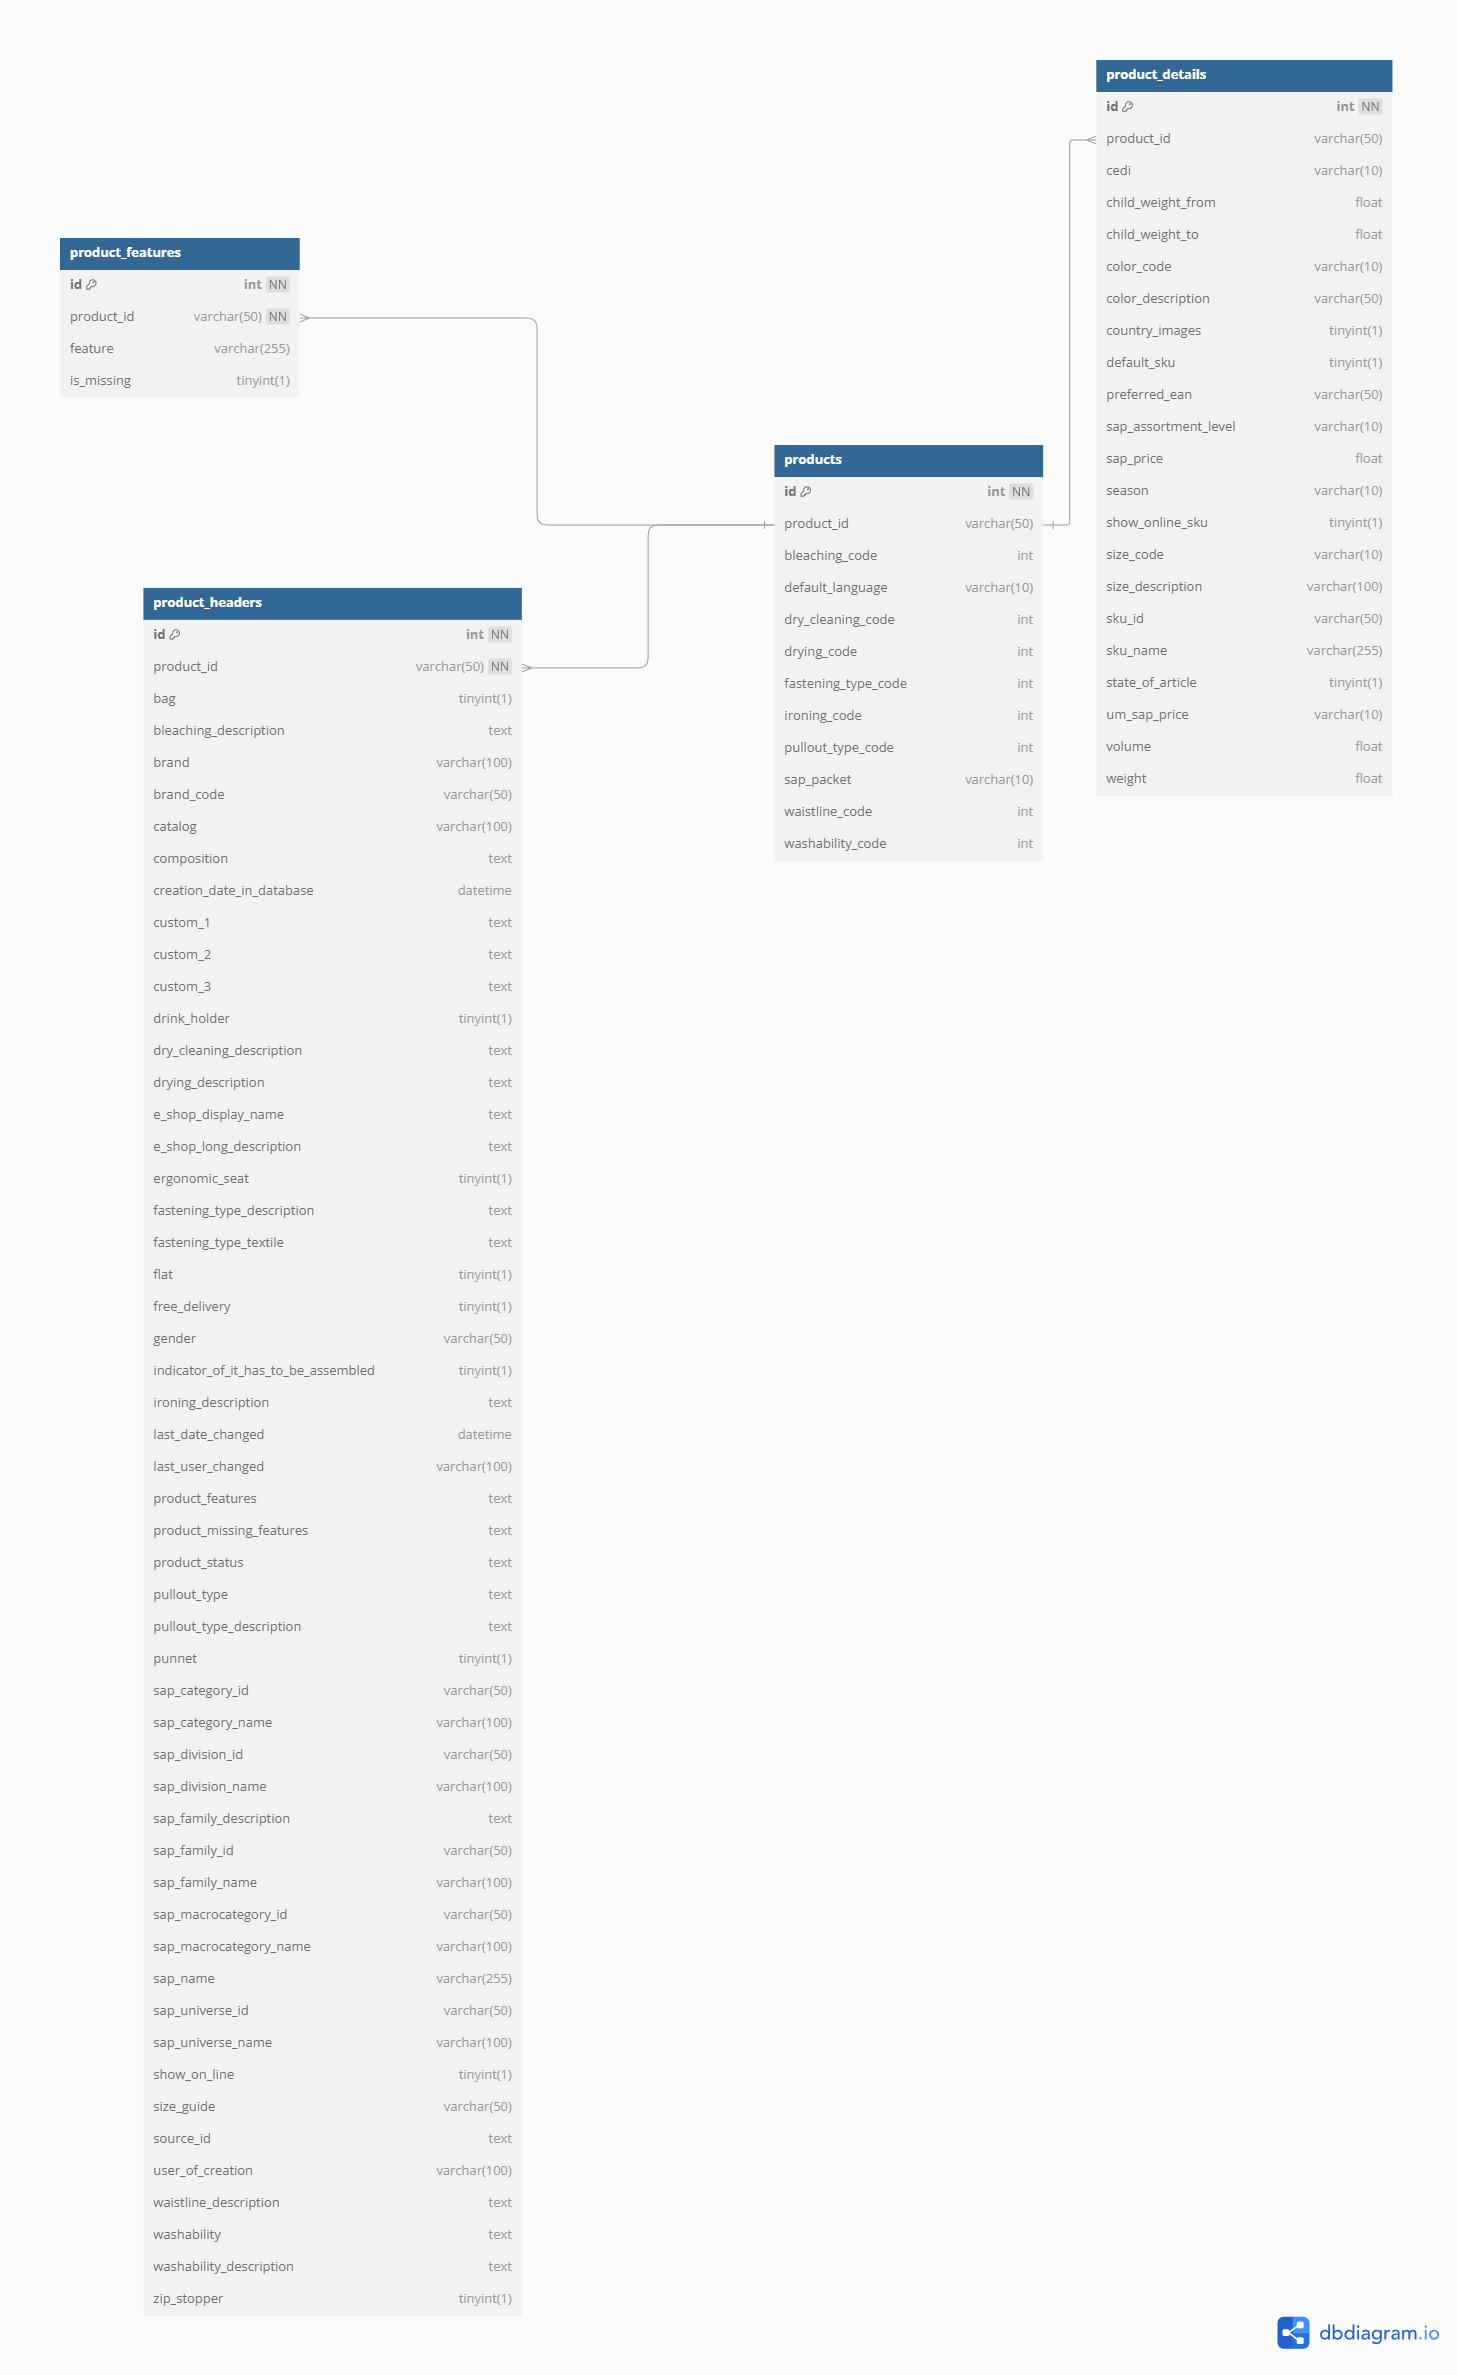
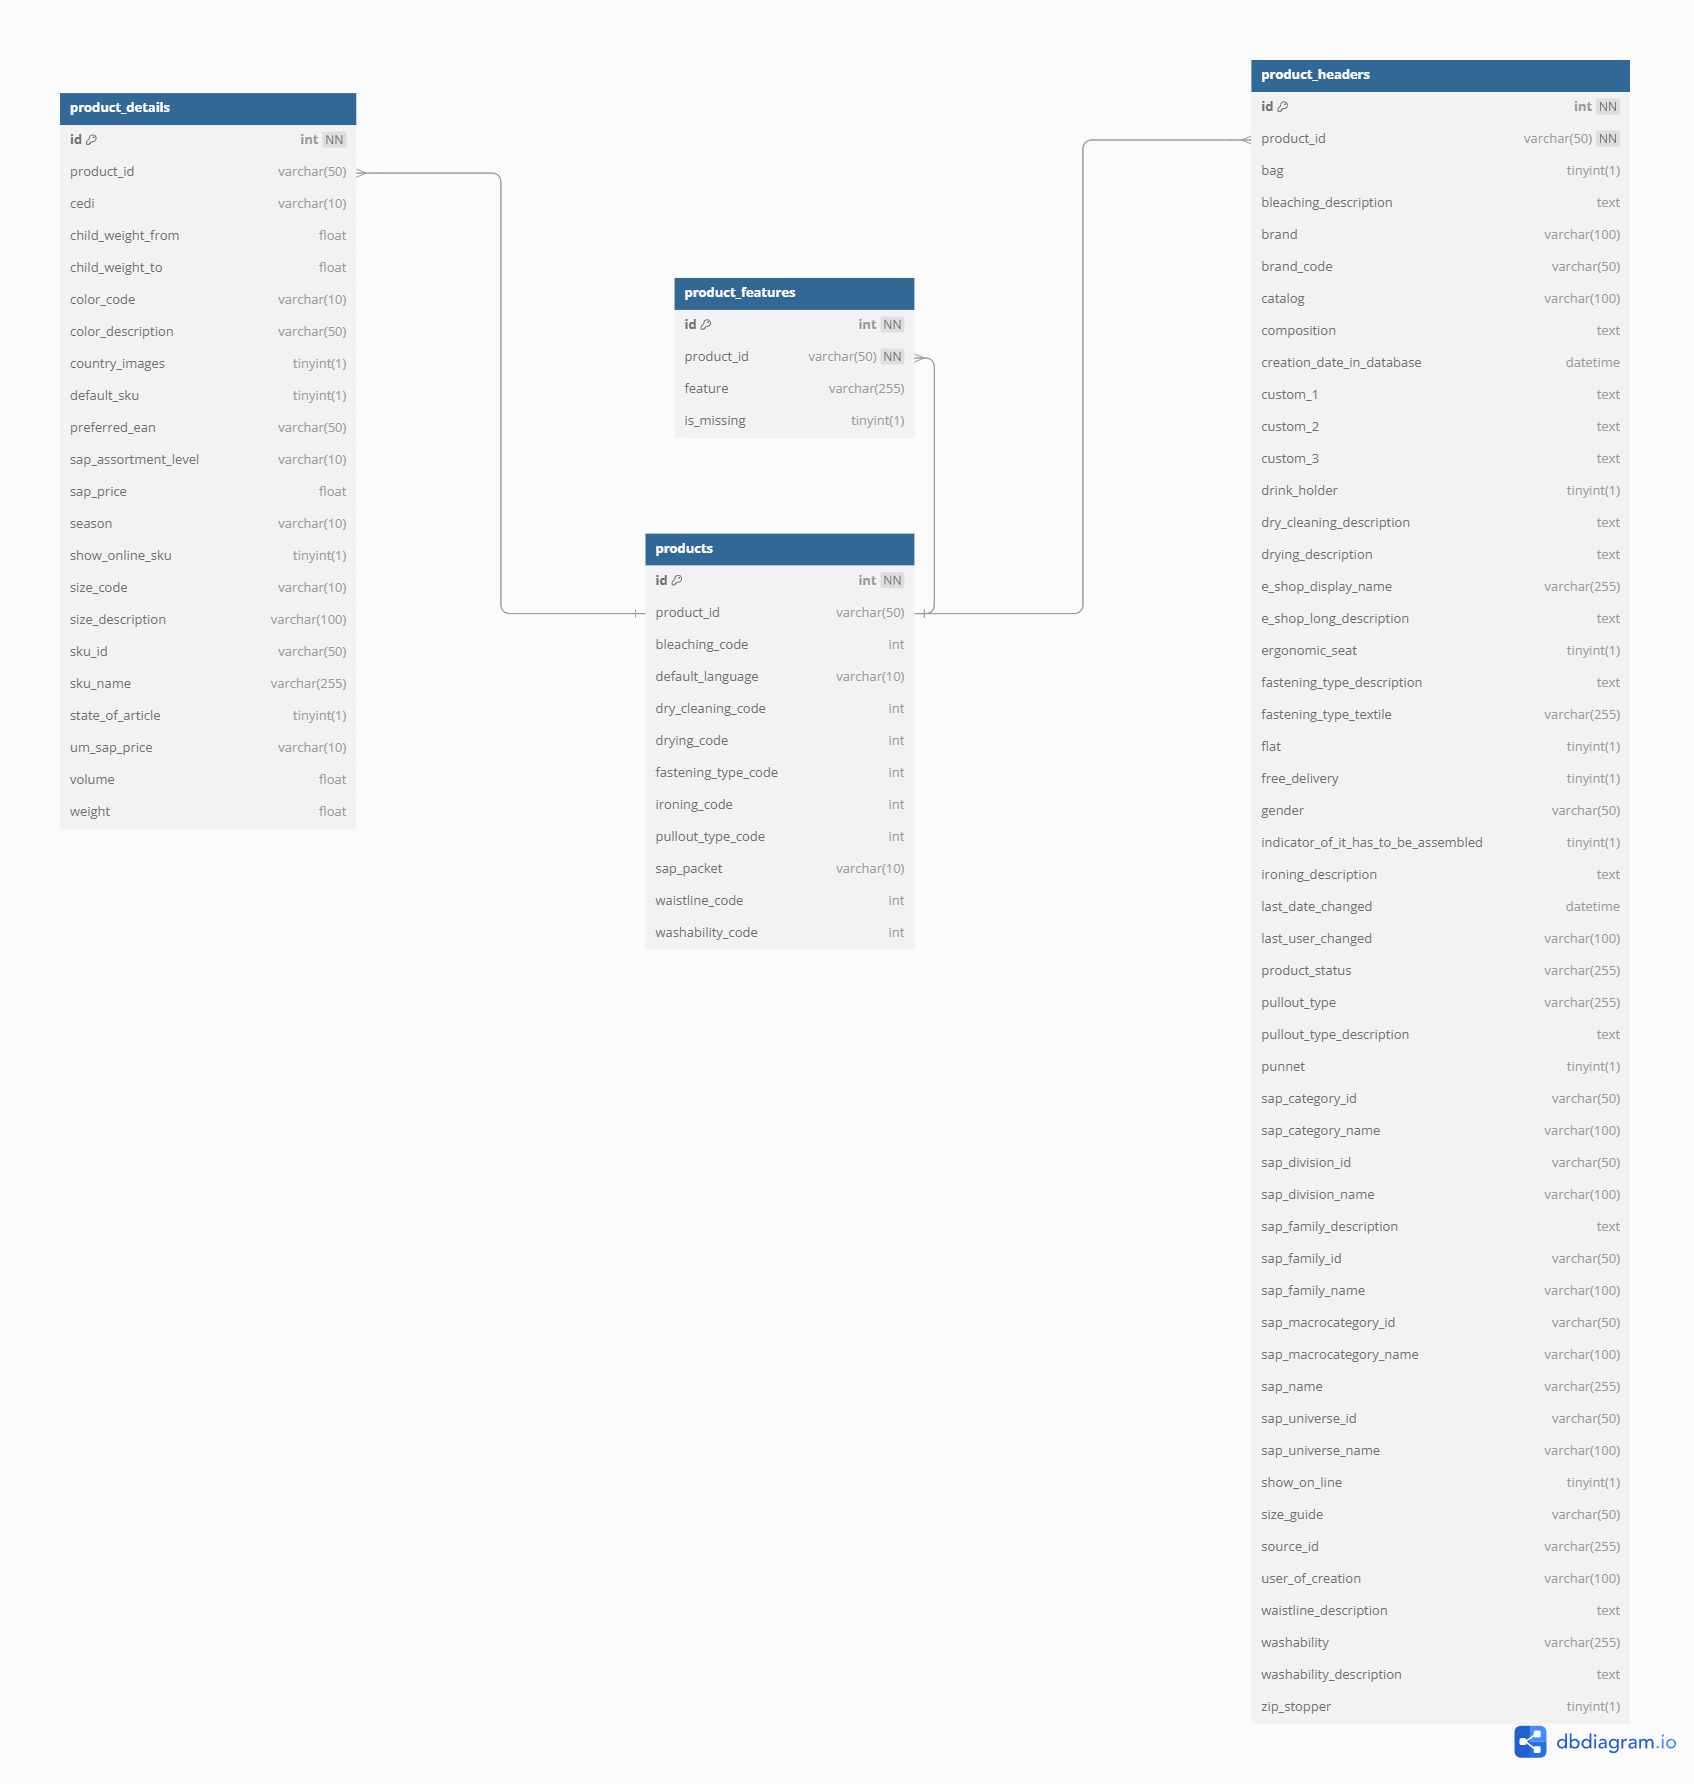
small changes

diff --git a/scripts/migrations.php b/scripts/migrations.php
@@ -68,11 +68,11 @@ function createTables($pdo) {
             drink_holder BOOLEAN DEFAULT NULL,
             dry_cleaning_description TEXT DEFAULT NULL,
             drying_description TEXT DEFAULT NULL,
-            e_shop_display_name TEXT DEFAULT NULL,
+            e_shop_display_name VARCHAR(255) DEFAULT NULL,
             e_shop_long_description TEXT DEFAULT NULL,
             ergonomic_seat BOOLEAN DEFAULT NULL,
             fastening_type_description TEXT DEFAULT NULL,
-            fastening_type_textile TEXT DEFAULT NULL,
+            fastening_type_textile VARCHAR(255) DEFAULT NULL,
             flat BOOLEAN DEFAULT NULL,
             free_delivery BOOLEAN DEFAULT NULL,
             gender VARCHAR(50) DEFAULT NULL,
@@ -80,10 +80,8 @@ function createTables($pdo) {
             ironing_description TEXT DEFAULT NULL,
             last_date_changed DATETIME DEFAULT NULL,
             last_user_changed VARCHAR(100) DEFAULT NULL,
-            product_features TEXT DEFAULT NULL,
-            product_missing_features TEXT DEFAULT NULL,
-            product_status TEXT DEFAULT NULL,
-            pullout_type TEXT DEFAULT NULL,
+            product_status VARCHAR(255) DEFAULT NULL,
+            pullout_type VARCHAR(255) DEFAULT NULL,
             pullout_type_description TEXT DEFAULT NULL,
             punnet BOOLEAN DEFAULT NULL,
             sap_category_id VARCHAR(50) DEFAULT NULL,
@@ -100,10 +98,10 @@ function createTables($pdo) {
             sap_universe_name VARCHAR(100) DEFAULT NULL,
             show_on_line BOOLEAN DEFAULT NULL,
             size_guide VARCHAR(50) DEFAULT NULL,
-            source_id TEXT DEFAULT NULL,
+            source_id VARCHAR(255) DEFAULT NULL,
             user_of_creation VARCHAR(100) DEFAULT NULL,
             waistline_description TEXT DEFAULT NULL,
-            washability TEXT DEFAULT NULL,
+            washability VARCHAR(255) DEFAULT NULL,
             washability_description TEXT DEFAULT NULL,
             zip_stopper BOOLEAN DEFAULT NULL,
             FOREIGN KEY (product_id) REFERENCES products(product_id)
